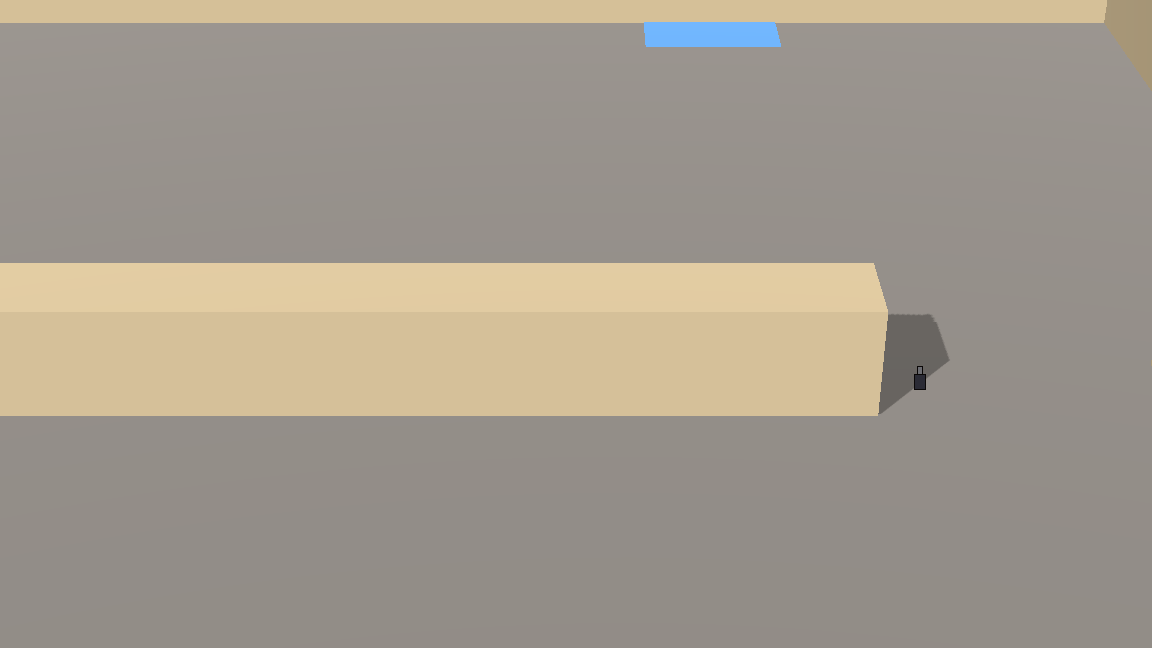
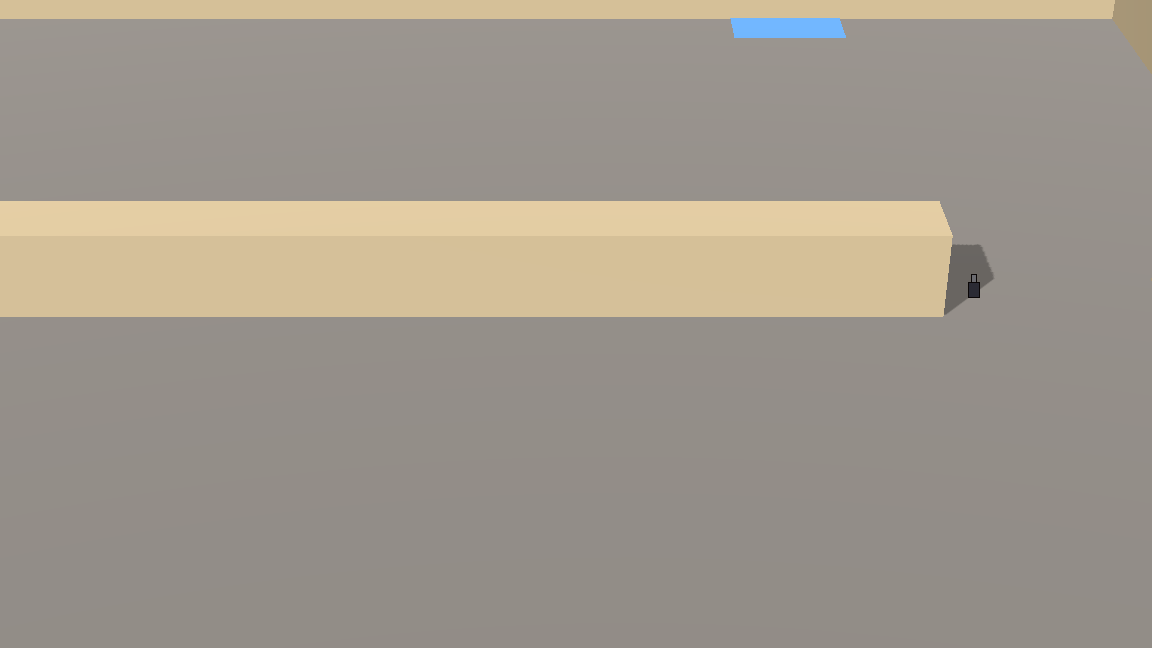
feat: chase_visibility (I14) validation; overworld camera raised to 12 m (overworld story 099)
ChaseVisibility.validate() checks R_vis >= see_m at 4:3, 16:9 and 21:9,
naming the binding aspect and edge, and keeps the tilt-shift bounds sharp
out to s_blur measured from the leader. The shipped 10 m camera failed at
every aspect; it now ships at the GDD's proposed 12 m (OQ-1). validate_maps
runs I14 on the shipped camera; story 087's walk-ins are recaptured.

Story: OW-099

Changed region(s): [[0.0, 0.3086, 0.875, 0.6481], [0.0, 0.0, 1.0, 0.1235]]

diff --git a/production/epics/overworld-exploration-encounters/story-099-chase-visibility-validates-at-every-aspect.md b/production/epics/overworld-exploration-encounters/story-099-chase-visibility-validates-at-every-aspect.md
@@ -1,7 +1,7 @@
 # Story 099: `chase_visibility` (I14) passes the shipped camera at 4:3, 16:9 and 21:9, including the tilt-shift blur bounds
 
 > **Epic**: Overworld Exploration & Encounters
-> **Status**: Ready
+> **Status**: Complete (2026-10-30)
 > **Layer**: Feature
 > **Type**: Logic
 > **Estimate**: L
@@ -31,7 +31,7 @@
 
 *From GDD `design/gdd/overworld-exploration-encounters.md`, scoped to this story:*
 
-- [ ] **AC-39 [L] (`chase_visibility`, I14)** With presentation's example camera (pitch 30°, F_v 20°), h 10 m fails and names the binding aspect and edge. h 11.5 m passes at 4:3, 16:9 and 21:9 at the default dz and tau. Blur fixtures: `dof_far_begin` below `d_cam(+s_blur)` fails; `dof_near_end` above `d_cam(−s_blur) − H_max·sin(pitch)` fails; a fixture that passes when measured from the focus but fails with the leader at the dead-zone edge (`s_blur` vs `see_m`) fails. The shipped config passes at all three aspects.
+- [x] **AC-39 [L] (`chase_visibility`, I14)** With presentation's example camera (pitch 30°, F_v 20°), h 10 m fails and names the binding aspect and edge. h 11.5 m passes at 4:3, 16:9 and 21:9 at the default dz and tau. Blur fixtures: `dof_far_begin` below `d_cam(+s_blur)` fails; `dof_near_end` above `d_cam(−s_blur) − H_max·sin(pitch)` fails; a fixture that passes when measured from the focus but fails with the leader at the dead-zone edge (`s_blur` vs `see_m`) fails. The shipped config passes at all three aspects.
 
 ---
 
@@ -59,7 +59,7 @@
 ## Files
 
 - `src/overworld/overworld_config.gd`
-- `tests/unit/overworld/chase_visibility_test.gd`
+- `tests/unit/overworld/chase_visibility_validation_test.gd`
 
 ---
 
@@ -73,9 +73,9 @@
 
 **Story Type**: Logic
 **Required evidence**:
-- `tests/unit/overworld/chase_visibility_test.gd` — must exist and pass. Gate level: BLOCKING.
+- `tests/unit/overworld/chase_visibility_validation_test.gd` — must exist and pass. Gate level: BLOCKING.
 
-**Status**: [ ] Not yet created
+**Status**: [x] Created and passing
 
 ---
 
@@ -83,3 +83,17 @@
 
 - Depends on: `production/epics/overworld-exploration-encounters/story-098-config-invariants-i1-i18.md`, `production/epics/sprite-camera-presentation/story-023-follow-camera-matches-the-formula.md`
 - Unlocks: `production/epics/overworld-exploration-encounters/story-087-patrol-visibility-before-the-notice-radius.md`
+
+## Completion Notes (2026-10-30)
+
+- `ChaseVisibility.validate(cfg, presentation, profile)` is I14. At each aspect it reports the binding edge (`R_vis = min R_e`). When the profile blurs, it checks:
+  - `dof_near_end <= d_cam(-s_blur) - H_max*sin(pitch)`
+  - `dof_far_begin >= d_cam(+s_blur)`
+  - with `s_blur = see_m + dz_y + walk_speed*tau`, measured from the leader, and `d_cam(s) = h/sin(pitch) + s*cos(pitch)`.
+- `edge_reach_at` now shares `_edges()`. The GDD numbers reproduce exactly: 4.26/4.27/4.27 at 10 m, 4.99/5.00/5.00 at 11.5 m, 4.68 at the ceilings, and `s_blur` 5.84.
+- **Decision (OQ-1, taken autonomously per the standing rule):** the shipped follow camera height goes from 10.0 to 12.0 m, the GDD's proposal. 10.0 m failed I14 at every aspect. 12.0 m passes at any dz/tau in range.
+  - New `PresentationConfig.overworld_card_height_max_m` (`H_max`), a 2.0 m placeholder.
+  - The shipped overworld profiles (far blur at 30 m, no near blur) pass: `d_cam(+s_blur)` is about 29.3 m at 4:3. That margin is thin; flagged for Presentation.
+- `validate_maps` (CI) runs I14 on the shipped camera with both overworld profiles. Boot-time validation waits on GameRoot building configs from data.
+- The camera change makes story 087's walk-in captures (taken at 10 m) stale; they were recaptured at 12 m.
+- Mutations checked: blur measured from the focus, `H_max` dropped, and the dead zone not projected on the side normal each fail a test here.

diff --git a/production/epics/overworld-exploration-encounters/EPIC.md b/production/epics/overworld-exploration-encounters/EPIC.md
@@ -162,7 +162,7 @@ It depends on Game State (Done), Input (`get_move_vector()`), Content Data, and 
 | 096 | [A Continue made mid-chase starts every symbol in Patrol at its origin](story-096-continue-resets-symbols-to-patrol-origin.md) | Integration | Complete | ADR-0012 |
 | 097 | [Every row of the Overworld state table enters and exits correctly](story-097-state-table-transitions.md) | Logic | Complete | ADR-0012 |
 | 098 | [`OverworldConfig.validate()` rejects exactly the knob combination that breaks its invariant](story-098-config-invariants-i1-i18.md) | Logic | Complete | ADR-0012 |
-| 099 | [`chase_visibility` (I14) passes the shipped camera at 4:3, 16:9 and 21:9, including the tilt-shift blur bounds](story-099-chase-visibility-validates-at-every-aspect.md) | Logic | Ready | ADR-0012 |
+| 099 | [`chase_visibility` (I14) passes the shipped camera at 4:3, 16:9 and 21:9, including the tilt-shift blur bounds](story-099-chase-visibility-validates-at-every-aspect.md) | Logic | Complete | ADR-0012 |
 | 100 | [Swept contact fires at every approach angle and lateral offset, and never lets a frame skip through a wall](story-100-swept-contact-at-every-approach-angle.md) | Logic | Ready | ADR-0012 |
 | 101 | [A chase started at minimum contact distance gives up within one frame of `t_escape`](story-101-symbol-speeds-escape-timing.md) | Logic | Ready | ADR-0012 |
 | 102 | [`path_dist` stays a true upper bound on the leader's path distance through a U-shaped corridor](story-102-path-dist-upper-bound-through-a-u-corridor.md) | Logic | Ready | ADR-0012 |

diff --git a/production/epics/overworld-exploration-encounters/story-087-patrol-visibility-before-the-notice-radius.md b/production/epics/overworld-exploration-encounters/story-087-patrol-visibility-before-the-notice-radius.md
@@ -89,4 +89,5 @@
 - Built the parts of the owed tooling this AC needs: `PatrolApproaches` (story 135: approaches per 45-degree sector, the `see_m` disc measured along the walk grid so walls cut it) and `tools/level_review/walkin_capture.gd` (story 134 in miniature: per approach, four passes give the symbol mask and the share a set occluder hides). `OverworldConfig.see_lead_s` and `see_m()` added.
 - Shipped maps: 23 approaches, all 100% visible, none clipped by the frame (`production/qa/evidence/story-087-patrol-visibility/report.md`). The gate was watched failing (0%, exit 1) with the segment east Clerk moved behind the row-12 wall block.
 - The first capture run showed the dungeon first-room Clerk cut off by the camera clamp at the east wall (framing, AC-39, not an occluder); it moved from x 21.5 to 20.5. The report now flags any mask touching the frame edge.
+- 2026-10-30: recaptured at the new 12.0 m camera height (story 099, OQ-1): 24 approaches, all 100% visible, none clipped. I opened a sample myself (segment east s0, dungeon first room s4, hall s7): the Clerk is unoccluded in each, and the first-room one sits near the right edge but inside the frame.
 - **Open:** art-director sign-off on the captures, to be added to `signoff-overworld.md`.
